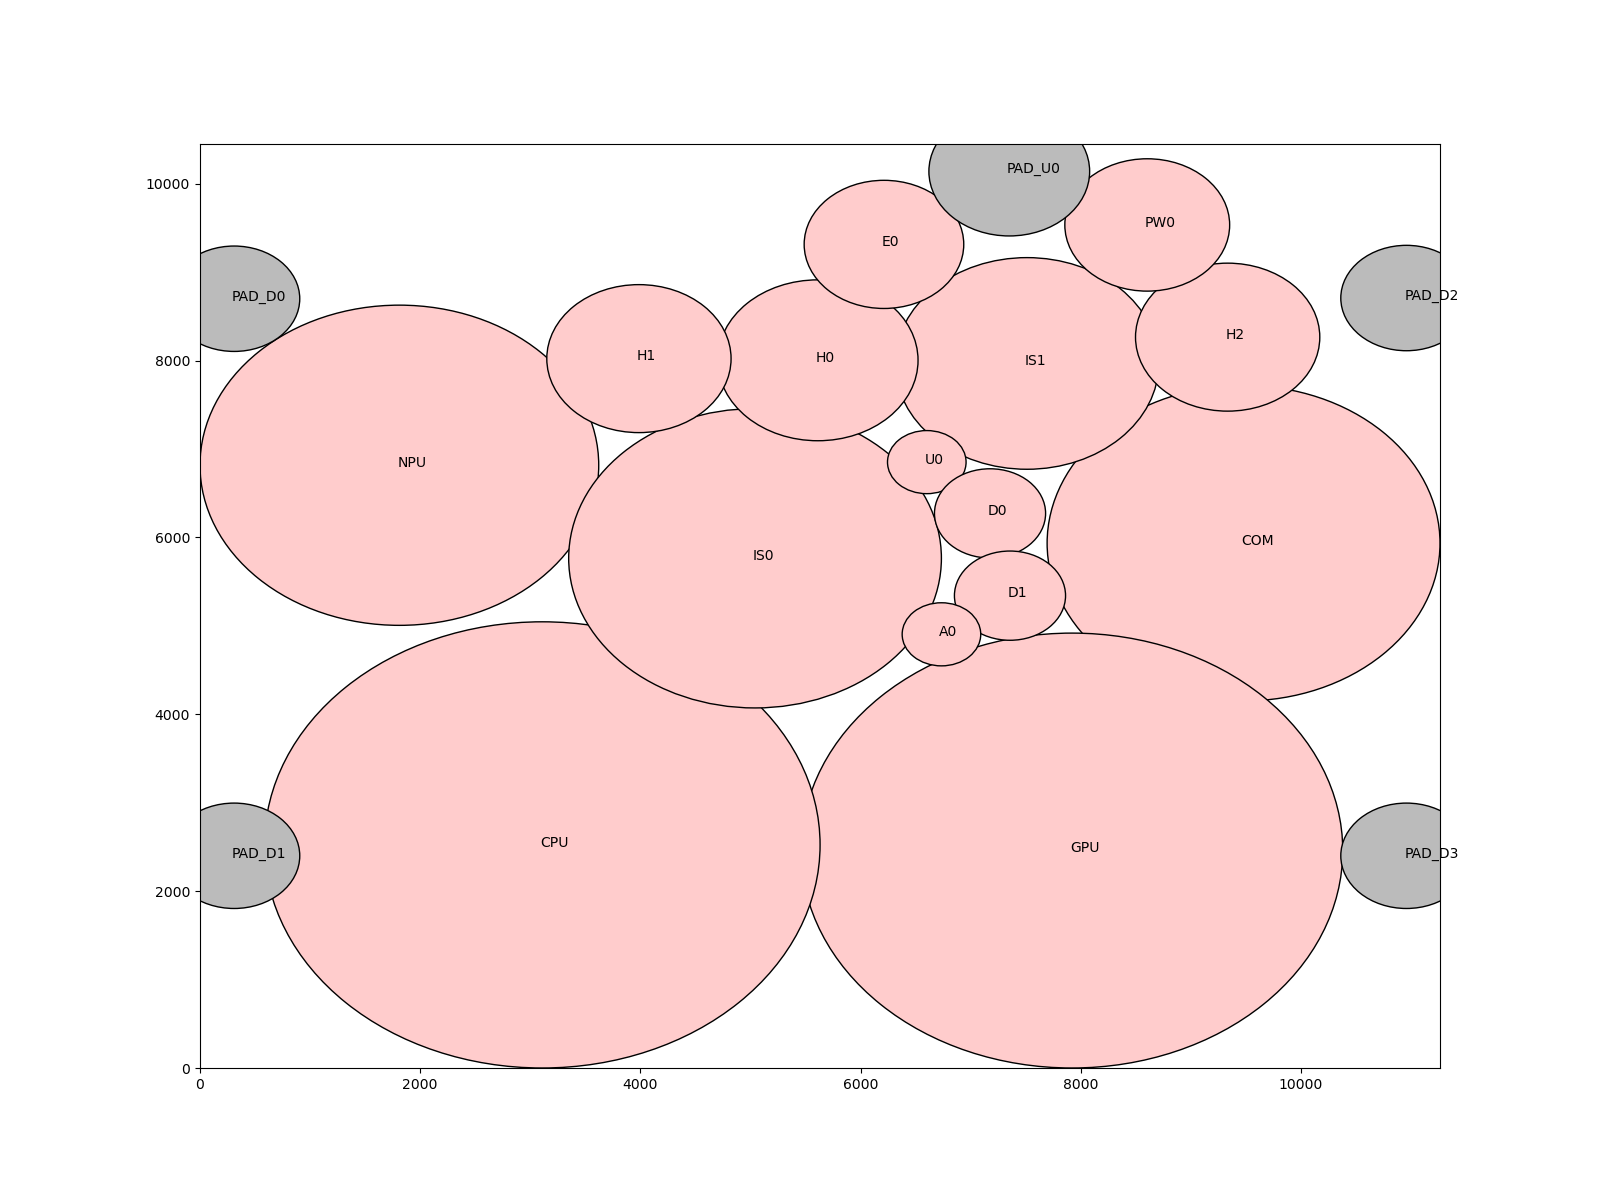
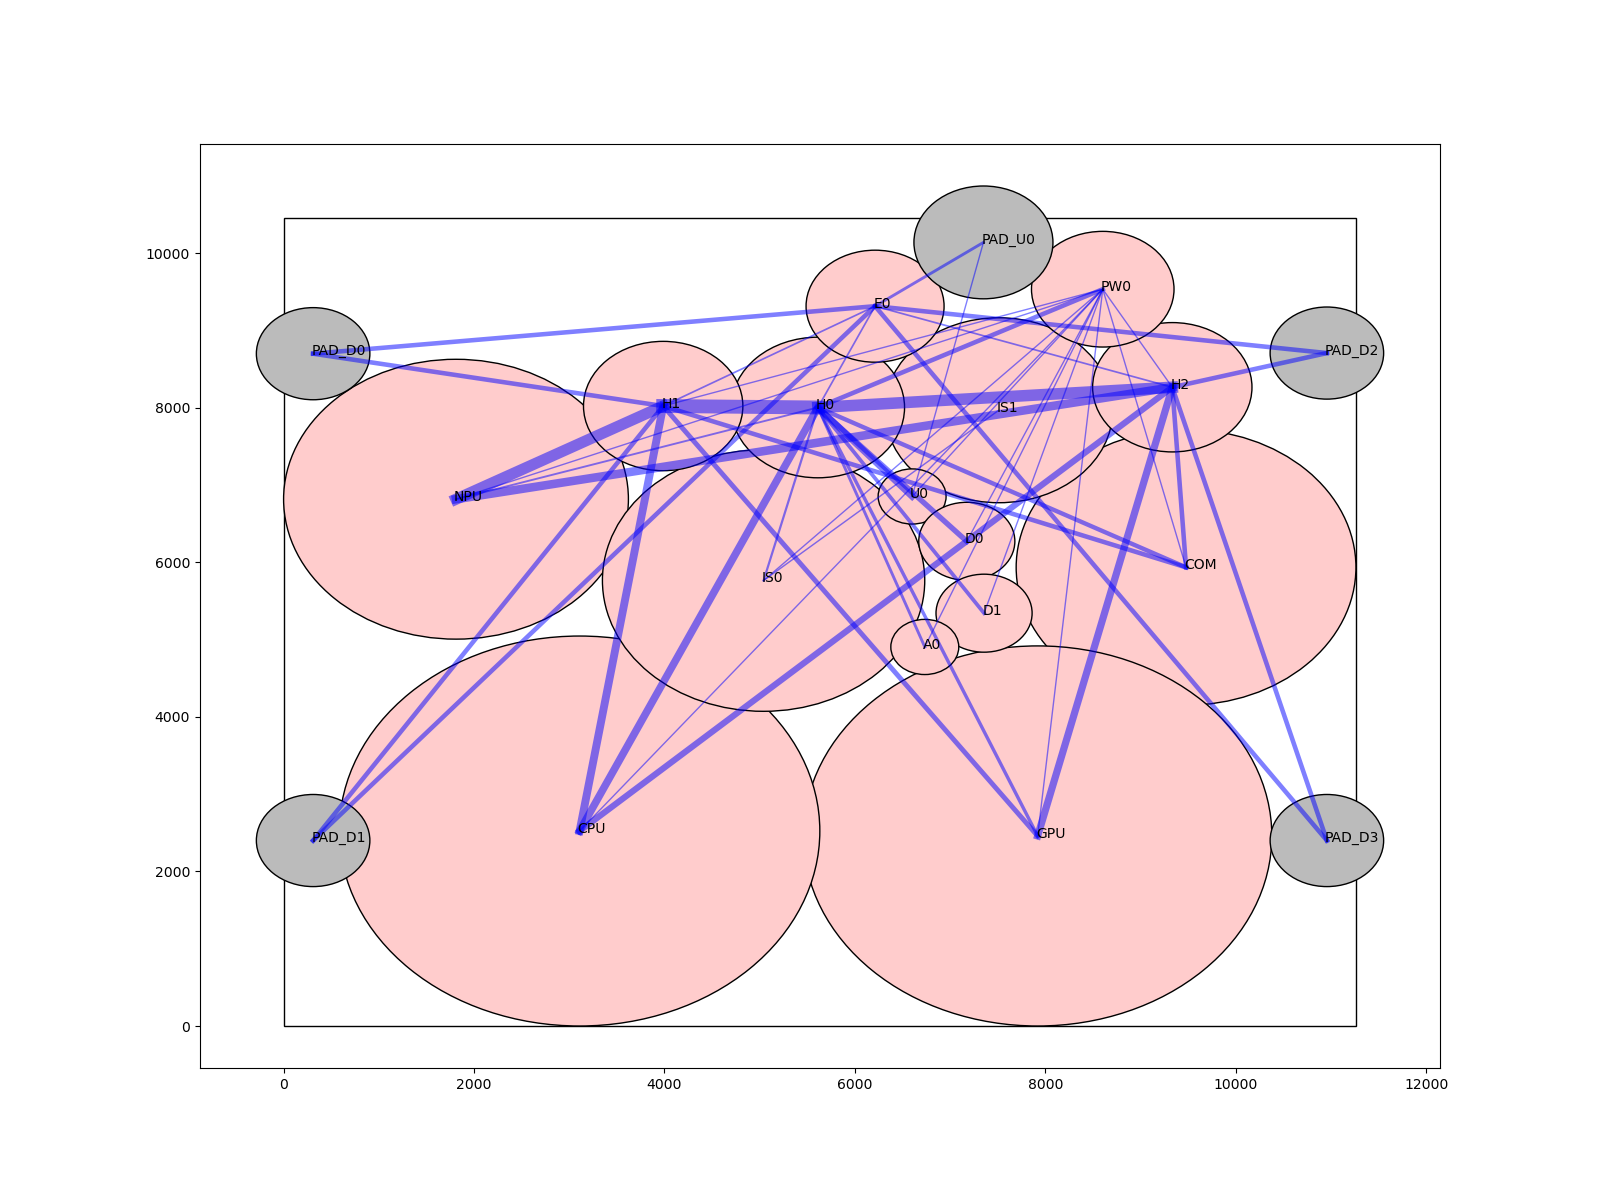
add connection visualization

diff --git a/draw_circle_layout.py b/draw_circle_layout.py
@@ -50,7 +50,8 @@ fread = open(txt_name, 'r')
 f = fread.read().split("\n")
 
 
-total_block_number = int(f[0])
+total_block_number = int(f[0].split(" ")[1])
+total_connection_number = int(f[0].split(" ")[3])
 window_width = int(f[1].split(" ")[0])
 window_height = int(f[1].split(" ")[1])
 
@@ -60,16 +61,50 @@ ax = fig.add_subplot(111)
 ax.set_xbound(0, window_width)
 ax.set_ybound(0, window_height)
 
-
 i = 2
+
+ax.add_patch(
+    patches.Rectangle(
+        (0, 0),
+        window_width,
+        window_height,
+        fill=False,
+        edgecolor="#000",
+        facecolor="#FFF",
+        alpha=1.0  # 0.3 original
+    )
+)
+
+name2pos = {}
 
 for block in range(total_block_number):
     ss = f[i].split(" ")
     plt.text(float(ss[2])-20, float(ss[3])-20, ss[0])
     draw_circle(ax, float(ss[2]), float(ss[3]), float(ss[4]), int(ss[1]))
-    # draw_circle(ax, float(ss[1]), float(ss[2]), 100, int(ss[0]))
+    name2pos[ss[0]] = (float(ss[2]), float(ss[3]))
     i += 1
 
+j = i
+max_value = 1
+min_value = 1e10
+for connection in range(total_connection_number):
+    ss = f[j].split(" ")
+    value = int(ss[2])
+    if value > max_value:
+        max_value = value
+    if value < min_value:
+        min_value = value
+    j += 1
+
+for connection in range(total_connection_number):
+    ss = f[i].split(" ")
+    x_values = [name2pos[ss[0]][0], name2pos[ss[1]][0]]
+    y_values = [name2pos[ss[0]][1], name2pos[ss[1]][1]]
+    value = float(ss[2])
+    width = (value - min_value) / (max_value - min_value) * 9 + 1
+    plt.plot(x_values, y_values, color="blue",
+             linestyle="-", linewidth=width, alpha=0.5)
+    i += 1
 
 # plt.savefig(str(sys.argv[1])[:-4]+".png")
 

diff --git a/ppsolver.cpp b/ppsolver.cpp
@@ -3,6 +3,7 @@
 #include <fstream>
 #include <iostream>
 #include <cmath>
+#include <algorithm>
 
 PPSolver::PPSolver() {
     softModuleNum = 0;
@@ -36,6 +37,10 @@ void PPSolver::setFixedModuleNum(int num) {
     yForce.resize(moduleNum);
 }
 
+void PPSolver::setConnectionNum(int num) {
+    connectionNum = num;
+}
+
 void PPSolver::addModule(PPModule* in_module) {
     modules.push_back(in_module);
 }
@@ -55,13 +60,24 @@ void PPSolver::addConnection(std::string ma, std::string mb, float value) {
 
 void PPSolver::currentPosition2txt(std::string file_name) {
     std::ofstream ostream(file_name);
-    ostream << moduleNum << std::endl;
+    ostream << "BLOCK " << moduleNum << " CONNECTOIN " << connectionNum << std::endl;
     ostream << DieWidth << " " << DieHeight << std::endl;
     for ( int i = 0; i < moduleNum; i++ ) {
         ostream << modules[i]->name << " ";
         ostream << !( modules[i]->fixed ) << " ";
         ostream << modules[i]->x << " " << modules[i]->y << " ";
         ostream << modules[i]->radius << std::endl;
+    }
+    std::vector<PPModule*> added;
+    for ( int i = 0; i < moduleNum; i++ ) {
+        added.push_back(modules[i]);
+        for ( int j = 0; j < modules[i]->connections.size(); j++ ) {
+            if ( std::find(added.begin(), added.end(), modules[i]->connections[j]->module) != added.end() )
+                continue;
+            ostream << modules[i]->name << " ";
+            ostream << modules[i]->connections[j]->module->name << " ";
+            ostream << modules[i]->connections[j]->value << std::endl;
+        }
     }
     ostream.close();
 }

diff --git a/ppsolver.h b/ppsolver.h
@@ -8,7 +8,7 @@
 class PPSolver {
 private:
     float DieWidth, DieHeight;
-    int softModuleNum, fixedModuleNum, moduleNum;
+    int softModuleNum, fixedModuleNum, moduleNum, connectionNum;
     std::vector<PPModule*> modules;
     std::vector<float> xForce, yForce;
     float xMaxMovement, yMaxMovement;
@@ -18,6 +18,7 @@ public:
     void setOutline(int width, int height);
     void setSoftModuleNum(int num);
     void setFixedModuleNum(int num);
+    void setConnectionNum(int num);
     void addModule(PPModule* in_module);
     void addConnection(std::string ma, std::string mb, float value);
     void currentPosition2txt(std::string file_name);

diff --git a/main.cpp b/main.cpp
@@ -51,6 +51,7 @@ int main(int argc, char* argv[]) {
     }
 
     istream >> s >> connectionNum;
+    solver.setConnectionNum(connectionNum);
 
     for ( int i = 0; i < connectionNum; i++ ) {
         istream >> m0 >> m1 >> value;
